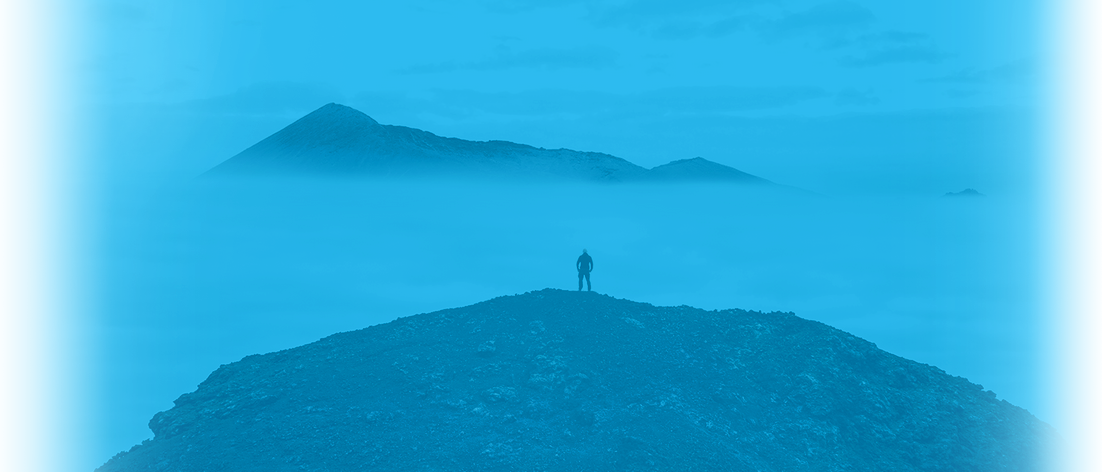
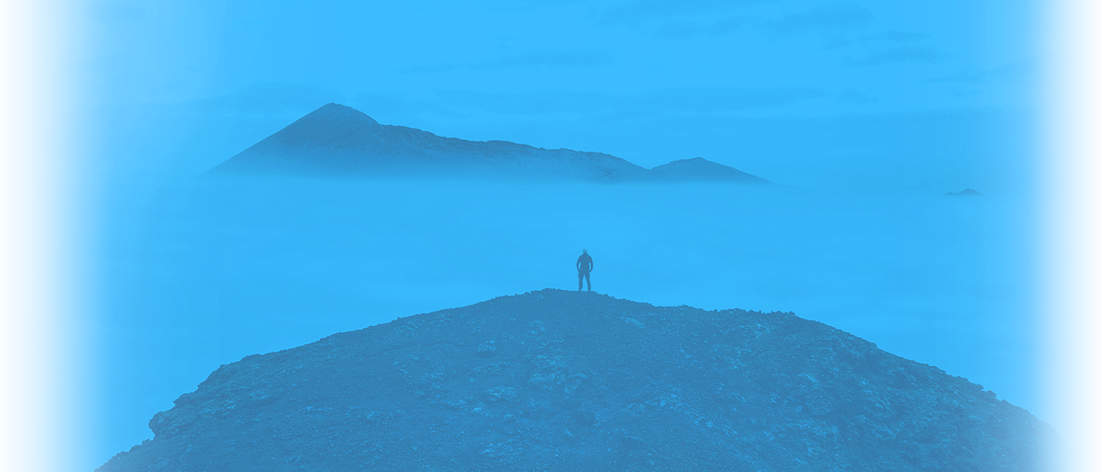
5291840
5291840

diff --git a/index.html b/index.html
@@ -44,7 +44,7 @@
     
     .banner{
       background:url(banner.png)
-      no-repeat center center;background-color:#29bbf1;height:400px;text-align: right;margin-top: -10px;}
+      no-repeat center center;background-color:#36b9fb;height:400px;text-align: right;margin-top: -10px;}
     
     .slogan{margin-right:60px;padding-top:160px;padding-bottom:-2px;font-family:"黑体";font-size:24px;color: #ffffff;}
     
@@ -52,13 +52,13 @@
     
     .call:hover{background:rgba(255,255,255,0.5);}
     
-    .myphoto{float:left;margin-top:-25px;padding-top:-100px;padding-left: 150px;}
+    .myphoto{float:left;margin-top:-5px;padding-top:-100px;padding-left: 170px;}
 
     .h3-title{font-family:"黑体";color:#6f6f70;font-size:24px;font-weight: bold;}
     
     .container3{text-align:center;margin-top:100px;margin-bottom: 100px;}
     
-    .email{font-weight:bold;font-family:"黑体";font-size: 16px;background: #29bbf1;padding: 10px 43px;color: #ffffff;border-radius: 5px;margin-top: 10px;display: inline-block;transition:all 0.15s linear 0s;}
+    .email{font-weight:bold;font-family:"黑体";font-size: 16px;background: #36b9fb;padding: 10px 43px;color: #ffffff;border-radius: 5px;margin-top: 10px;display: inline-block;transition:all 0.15s linear 0s;}
     
     .email:hover{background: #6affff;}
     

diff --git a/masterwork1.html b/masterwork1.html
@@ -55,9 +55,9 @@
     
     .footercontent{font-family:"黑体";color:#bfbfbf;font-size:16px;}
     
-    .email{font-weight:bold;font-family:"黑体";font-size: 16px;background: #29bbf1;padding: 10px 43px;color: #ffffff;border-radius: 5px;margin-top: 10px;display: inline-block;transition:all 0.15s linear 0s;}
+    .email{font-weight:bold;font-family:"黑体";font-size: 16px;background: #36b9fb;padding: 10px 43px;color: #ffffff;border-radius: 5px;margin-top: 10px;display: inline-block;transition:all 0.15s linear 0s;}
     
-    .email1{font-weight:bold;font-family:"黑体";font-size: 16px;background: #29bbf1;padding: 10px 20px;color: #ffffff;border-radius: 5px;margin-top: 10px;display: inline-block;transition:all 0.15s linear 0s;}
+    .email1{font-weight:bold;font-family:"黑体";font-size: 16px;background: #36b9fb;padding: 10px 20px;color: #ffffff;border-radius: 5px;margin-top: 10px;display: inline-block;transition:all 0.15s linear 0s;}
     
     .email:hover{background: #6affff;}
     

diff --git a/masterwork2.html b/masterwork2.html
@@ -51,9 +51,9 @@
     
     .container3{text-align:center;margin-top:100px;margin-bottom: 100px;}
 
-    .email{font-weight:bold;font-family:"黑体";font-size: 16px;background: #29bbf1;padding: 10px 43px;color: #ffffff;border-radius: 5px;margin-top: 10px;display: inline-block;transition:all 0.15s linear 0s;}
+    .email{font-weight:bold;font-family:"黑体";font-size: 16px;background: #36b9fb;padding: 10px 43px;color: #ffffff;border-radius: 5px;margin-top: 10px;display: inline-block;transition:all 0.15s linear 0s;}
     
-    .email1{font-weight:bold;font-family:"黑体";font-size: 16px;background: #29bbf1;padding: 10px 20px;color: #ffffff;border-radius: 5px;margin-top: 10px;display: inline-block;transition:all 0.15s linear 0s;}
+    .email1{font-weight:bold;font-family:"黑体";font-size: 16px;background: #36b9fb;padding: 10px 20px;color: #ffffff;border-radius: 5px;margin-top: 10px;display: inline-block;transition:all 0.15s linear 0s;}
     
     .email:hover{background: #6affff;}
     
